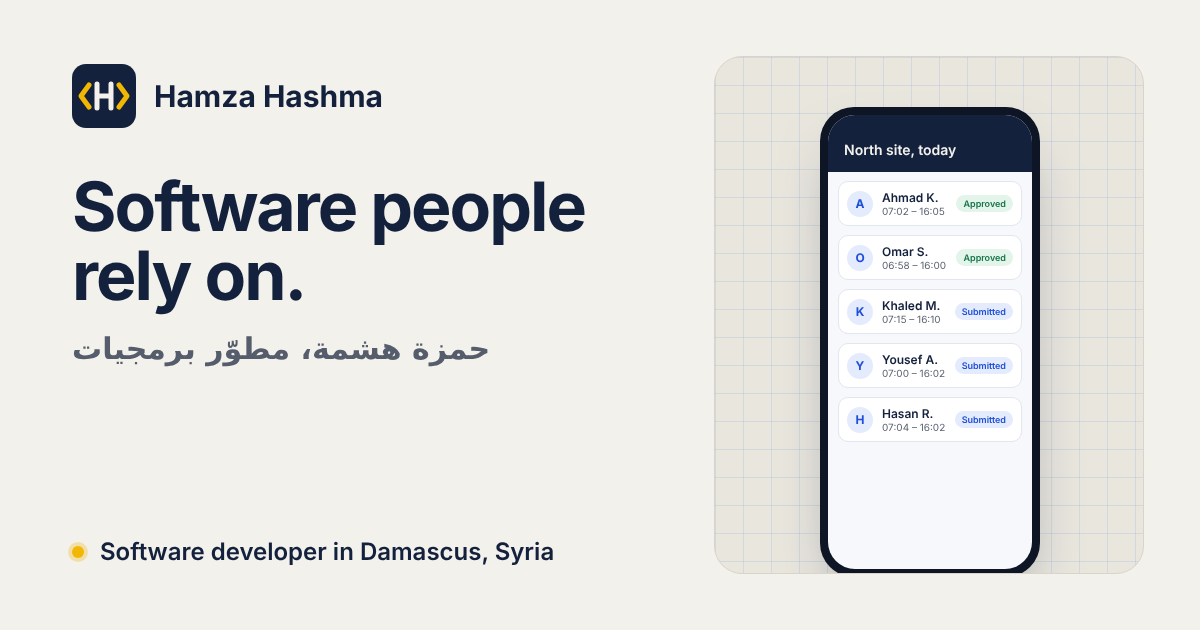
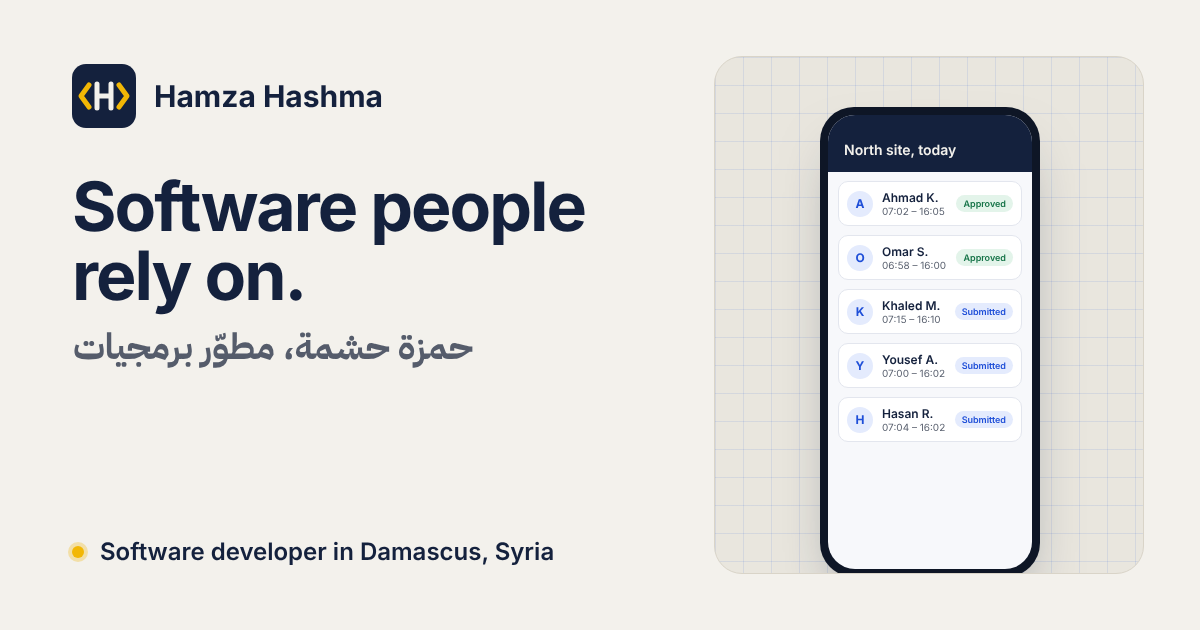
Fix Arabic surname: حشمة

Changed region(s): [[0.0617, 0.5127, 0.4008, 0.6032]]

diff --git a/index.html b/index.html
@@ -8,8 +8,8 @@
       %SITE_URL% comes from SITE_URL in vite.config.js (your domain, no "/" at the end).
       Link previews on WhatsApp / Facebook / LinkedIn need the full address of og-image.png.
     -->
-    <title>Hamza Hashma | Software Developer · حمزة هشمة</title>
-    <meta name="description" content="Hamza Hashma, software developer in Damascus. Computer Science graduate (GPA 3.97), builder of Team Flow for the Damascus International Airport project, and co-founder of Infinity Team. حمزة هشمة، مطوّر برمجيات في دمشق." />
+    <title>Hamza Hashma | Software Developer · حمزة حشمة</title>
+    <meta name="description" content="Hamza Hashma, software developer in Damascus. Computer Science graduate (GPA 3.97), builder of Team Flow for the Damascus International Airport project, and co-founder of Infinity Team. حمزة حشمة مطوّر برمجيات في دمشق." />
     <meta name="author" content="Hamza Hashma" />
     <meta name="theme-color" content="#F3F1EC" />
     <link rel="canonical" href="%SITE_URL%/" />
@@ -24,7 +24,7 @@
     <meta property="og:type" content="website" />
     <meta property="og:site_name" content="Hamza Hashma" />
     <meta property="og:title" content="Hamza Hashma, Software Developer" />
-    <meta property="og:description" content="I build software people rely on, and help others learn to build it. Projects, experience and awards. حمزة هشمة، مطوّر برمجيات." />
+    <meta property="og:description" content="I build software people rely on, and help others learn to build it. Projects, experience and awards. حمزة حشمة، مطوّر برمجيات." />
     <meta property="og:url" content="%SITE_URL%/" />
     <meta property="og:image" content="%SITE_URL%/og-image.png" />
     <meta property="og:image:width" content="1200" />
@@ -43,7 +43,7 @@
         "@context": "https://schema.org",
         "@type": "Person",
         "name": "Hamza Hashma",
-        "alternateName": "حمزة هشمة",
+        "alternateName": "حمزة حشمة",
         "jobTitle": "Software Developer",
         "url": "%SITE_URL%/",
         "image": "%SITE_URL%/og-image.png",
@@ -52,6 +52,7 @@
         "alumniOf": { "@type": "CollegeOrUniversity", "name": "Lebanese International University" },
         "address": { "@type": "PostalAddress", "addressLocality": "Damascus", "addressCountry": "SY" },
         "sameAs": ["https://www.linkedin.com/in/hamza-hashma"],
+        "knowsLanguage": ["ar", "en"],
         "knowsAbout": ["Software development", "Flutter", "React", "Node.js", "Data analysis", "Artificial intelligence"]
       }
     </script>
@@ -64,22 +65,6 @@
         var l = localStorage.getItem("lang");
         if (l === "ar") { document.documentElement.lang = "ar"; document.documentElement.dir = "rtl"; }
       } catch (e) {}
-    </script>
-    <script type="application/ld+json">
-      {
-        "@context": "https://schema.org",
-        "@type": "Person",
-        "name": "Hamza Hashma",
-        "alternateName": "حمزة هشمة",
-        "jobTitle": "Software Developer",
-        "url": "%SITE_URL%/",
-        "image": "%SITE_URL%/og-image.png",
-        "email": "mailto:hamzaheshmeh9@gmail.com",
-        "address": { "@type": "PostalAddress", "addressLocality": "Damascus", "addressCountry": "SY" },
-        "alumniOf": { "@type": "CollegeOrUniversity", "name": "Lebanese International University" },
-        "knowsLanguage": ["ar", "en"],
-        "sameAs": ["https://www.linkedin.com/in/hamza-hashma"]
-      }
     </script>
   </head>
   <body>

diff --git a/src/data/portfolioData.js b/src/data/portfolioData.js
@@ -656,11 +656,11 @@ export const portfolioData = {
       mainNav: "القائمة الرئيسية",
     },
     hero: {
-      name: "حمزة هشمة",
+      name: "حمزة حشمة",
       title: "مطوّر برمجيات",
       badge: "مطوّر برمجيات في دمشق، سوريا",
       headline: "أبني برمجيات يعتمد عليها الناس، وأساعد غيري على تعلّم بنائها.",
-      bio: "أنا حمزة هشمة، خريج علوم الحاسوب (بمعدل 3.97 من 4.00)، والمطوّر الوحيد في مشروع مطار دمشق الدولي، حيث يدير نظام الرواتب الذي بنيته أجور نحو 125 عاملًا. وقبل ذلك، درّست البرمجة والروبوتات لشباب لاجئين في لبنان.",
+      bio: "أنا حمزة حشمة، خريج علوم الحاسوب (بمعدل 3.97 من 4.00)، والمطوّر الوحيد في مشروع مطار دمشق الدولي، حيث يدير نظام الرواتب الذي بنيته أجور نحو 125 عاملًا. وقبل ذلك، درّست البرمجة والروبوتات لشباب لاجئين في لبنان.",
       primary: "اطّلع على أعمالي",
       secondary: "راسلني بالبريد",
       resume: "تحميل السيرة الذاتية",
@@ -784,8 +784,8 @@ export const portfolioData = {
       text: "الصفحة التي تبحث عنها غير موجودة أو نُقلت.",
       button: "العودة إلى الرئيسية",
     },
-    seoDescription: "حمزة هشمة، مطوّر برمجيات في دمشق. خريج علوم الحاسوب بمعدل 3.97، ومطوّر نظام Team Flow لمشروع مطار دمشق الدولي، ومؤسس مشارك في Infinity Team.",
-    footer: "تصميم وبرمجة حمزة هشمة",
+    seoDescription: "حمزة حشمة، مطوّر برمجيات في دمشق. خريج علوم الحاسوب بمعدل 3.97، ومطوّر نظام Team Flow لمشروع مطار دمشق الدولي، ومؤسس مشارك في Infinity Team.",
+    footer: "تصميم وبرمجة حمزة حشمة",
     backToTop: "العودة إلى الأعلى",
     skipLink: "انتقل إلى المحتوى",
   },
